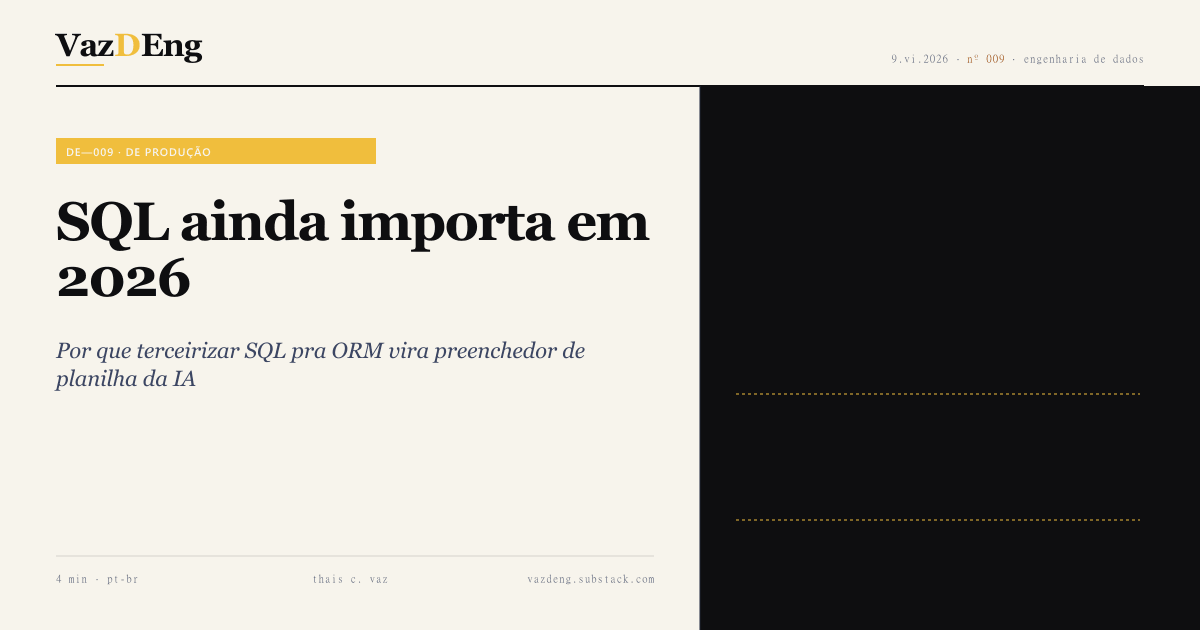
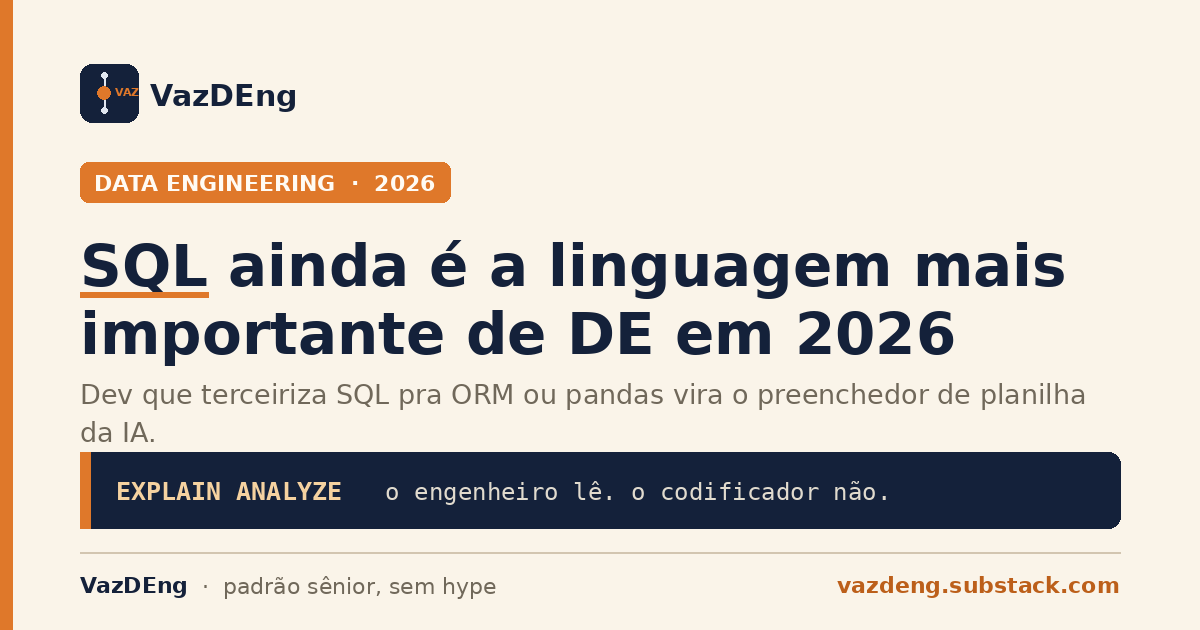
fix(post): add identity images to sql-ainda-importa-2026 (PT + EN)
Replace old-style cover with new identity cover and add 3 inline
images (coder loop, abstraction cost, LLM antipatterns) matching
the Substack version.

diff --git a/content/blog/2026-06-10-sql-ainda-importa-2026/index.en.md b/content/blog/2026-06-10-sql-ainda-importa-2026/index.en.md
@@ -14,6 +14,8 @@ There are devs onboarding into senior teams right now who have never written a `
 
 That dev is what Akita calls a coder, as opposed to an engineer. And AI is accelerating his extinction.
 
+![The coder's loop: query hangs, copy the error, paste the answer, it hangs again](coder-loop.png)
+
 ## The coder outsourced the understanding
 
 We used to learn SQL first because it was the only way to talk to the database. Today it's the opposite. Framework before SQL. ORM before SQL. pandas before SQL. Layer upon layer of abstraction hiding the query that will actually run.
@@ -25,6 +27,8 @@ The problem with abstraction is not the abstraction. It's that it hides the cost
 A modern data pipeline processes billions of rows a day. Every query decision costs minutes times cluster times DBU times day times month. The gap between a well-written query and one generated by an unprepared ORM is a 10x to 100x factor on the final bill.
 
 A concrete case from a consulting engagement: an accounting close pipeline at a Brazilian fintech. The ORM was generating 47 subqueries for something native SQL solves in 1 CTE with a window function. Databricks/Snowflake bill: about USD 1,600 a month. After someone finally wrote the query in plain SQL: USD 160 a month. Same business result, 10x difference.
+
+![Real accounting-close case: unprepared ORM at R$ 8,000/month vs plain SQL at R$ 800/month, 10x cheaper](abstraction-cost.png)
 
 It wasn't an isolated case. It's the pattern. Wherever there's a large pipeline generated through abstraction, there's a 10x fat factor waiting for someone to read the execution plan.
 
@@ -39,6 +43,8 @@ Patterns I keep seeing in LLM-generated SQL that nobody reviewed:
 - `WHERE UPPER(column) = 'X'` on an indexed column, killing the index.
 - No partition hint in Spark or Snowflake, scanning the whole table when one day of data was needed.
 - Window functions with the wrong `PARTITION BY`, computing the wrong thing without throwing an error.
+
+![Antipatterns in unreviewed LLM-generated SQL: SELECT * in stacked CTEs, IN instead of JOIN, function on indexed column, no partition hint, WINDOW without proper PARTITION BY](llm-antipatterns.png)
 
 If you don't read execution plans, you don't see any of this. It ships to production and you pay the interest at the end of the month. Technical debt with AI is not the same debt as 5 years ago. You take it on 10x faster, convinced you're getting ahead.
 

diff --git a/content/blog/2026-06-10-sql-ainda-importa-2026/index.md b/content/blog/2026-06-10-sql-ainda-importa-2026/index.md
@@ -14,6 +14,8 @@ Tem dev hoje fazendo onboarding em time sênior que nunca escreveu um `GROUP BY`
 
 Esse dev é o que o Akita chama de codificador. E a IA está acelerando a extinção dele.
 
+![O loop do codificador: query trava, copia o erro, cola a resposta, trava de novo](coder-loop.png)
+
 ## O codificador terceirizou o entendimento
 
 Antes a gente aprendia SQL primeiro porque era o jeito de falar com o banco. Hoje é o contrário. Framework antes de SQL. ORM antes de SQL. pandas antes de SQL. Camadas e mais camadas de abstração que escondem a query que de fato vai rodar.
@@ -25,6 +27,8 @@ O problema da abstração não é a abstração. É que ela esconde o custo. Voc
 Pipeline de DE moderno processa bilhões de linhas por dia. Toda decisão de query custa minutos vezes cluster vezes DBU vezes dia vezes mês. A diferença entre uma query bem escrita e uma gerada por ORM despreparado é fator 10 a 100x no custo final.
 
 Caso concreto que apareceu numa consultoria: pipeline de fechamento contábil em fintech brasileira. ORM gerando 47 subqueries pra coisa que SQL nativo resolve em 1 CTE com WINDOW. Custo Databricks/Snowflake: R$ 8 mil/mês. Depois que alguém finalmente escreveu a query em SQL puro, R$ 800/mês. Mesmo resultado de negócio, fator 10x de diferença.
+
+![Caso real de fechamento contábil: ORM despreparado a R$ 8 mil/mês vs SQL puro a R$ 800/mês, 10x mais barato](abstraction-cost.png)
 
 Não foi um caso isolado. É o padrão. Onde tem pipeline grande gerado por abstração, tem fator 10x de gordura esperando alguém ler o plan de execução.
 
@@ -39,6 +43,8 @@ Padrões observados em SQL gerado por LLM sem revisão:
 - `WHERE UPPER(coluna) = 'X'` em coluna indexada, derrubando o índice.
 - Sem hint de partition em Spark/Snowflake, lendo tabela inteira quando só precisa de 1 dia.
 - Window function sem `PARTITION BY` correto, computando coisa errada sem dar erro.
+
+![Antipadrões de SQL gerado por LLM sem revisão: SELECT * em CTE, IN no lugar de JOIN, função em coluna indexada, sem hint de partition, WINDOW sem PARTITION BY](llm-antipatterns.png)
 
 Quem não lê plan de execução não vê. Vai pra produção, paga os juros no fim do mês. Dívida técnica com IA não é a mesma dívida de 5 anos atrás. Você contrai 10x mais rápido, achando que está levando vantagem.
 